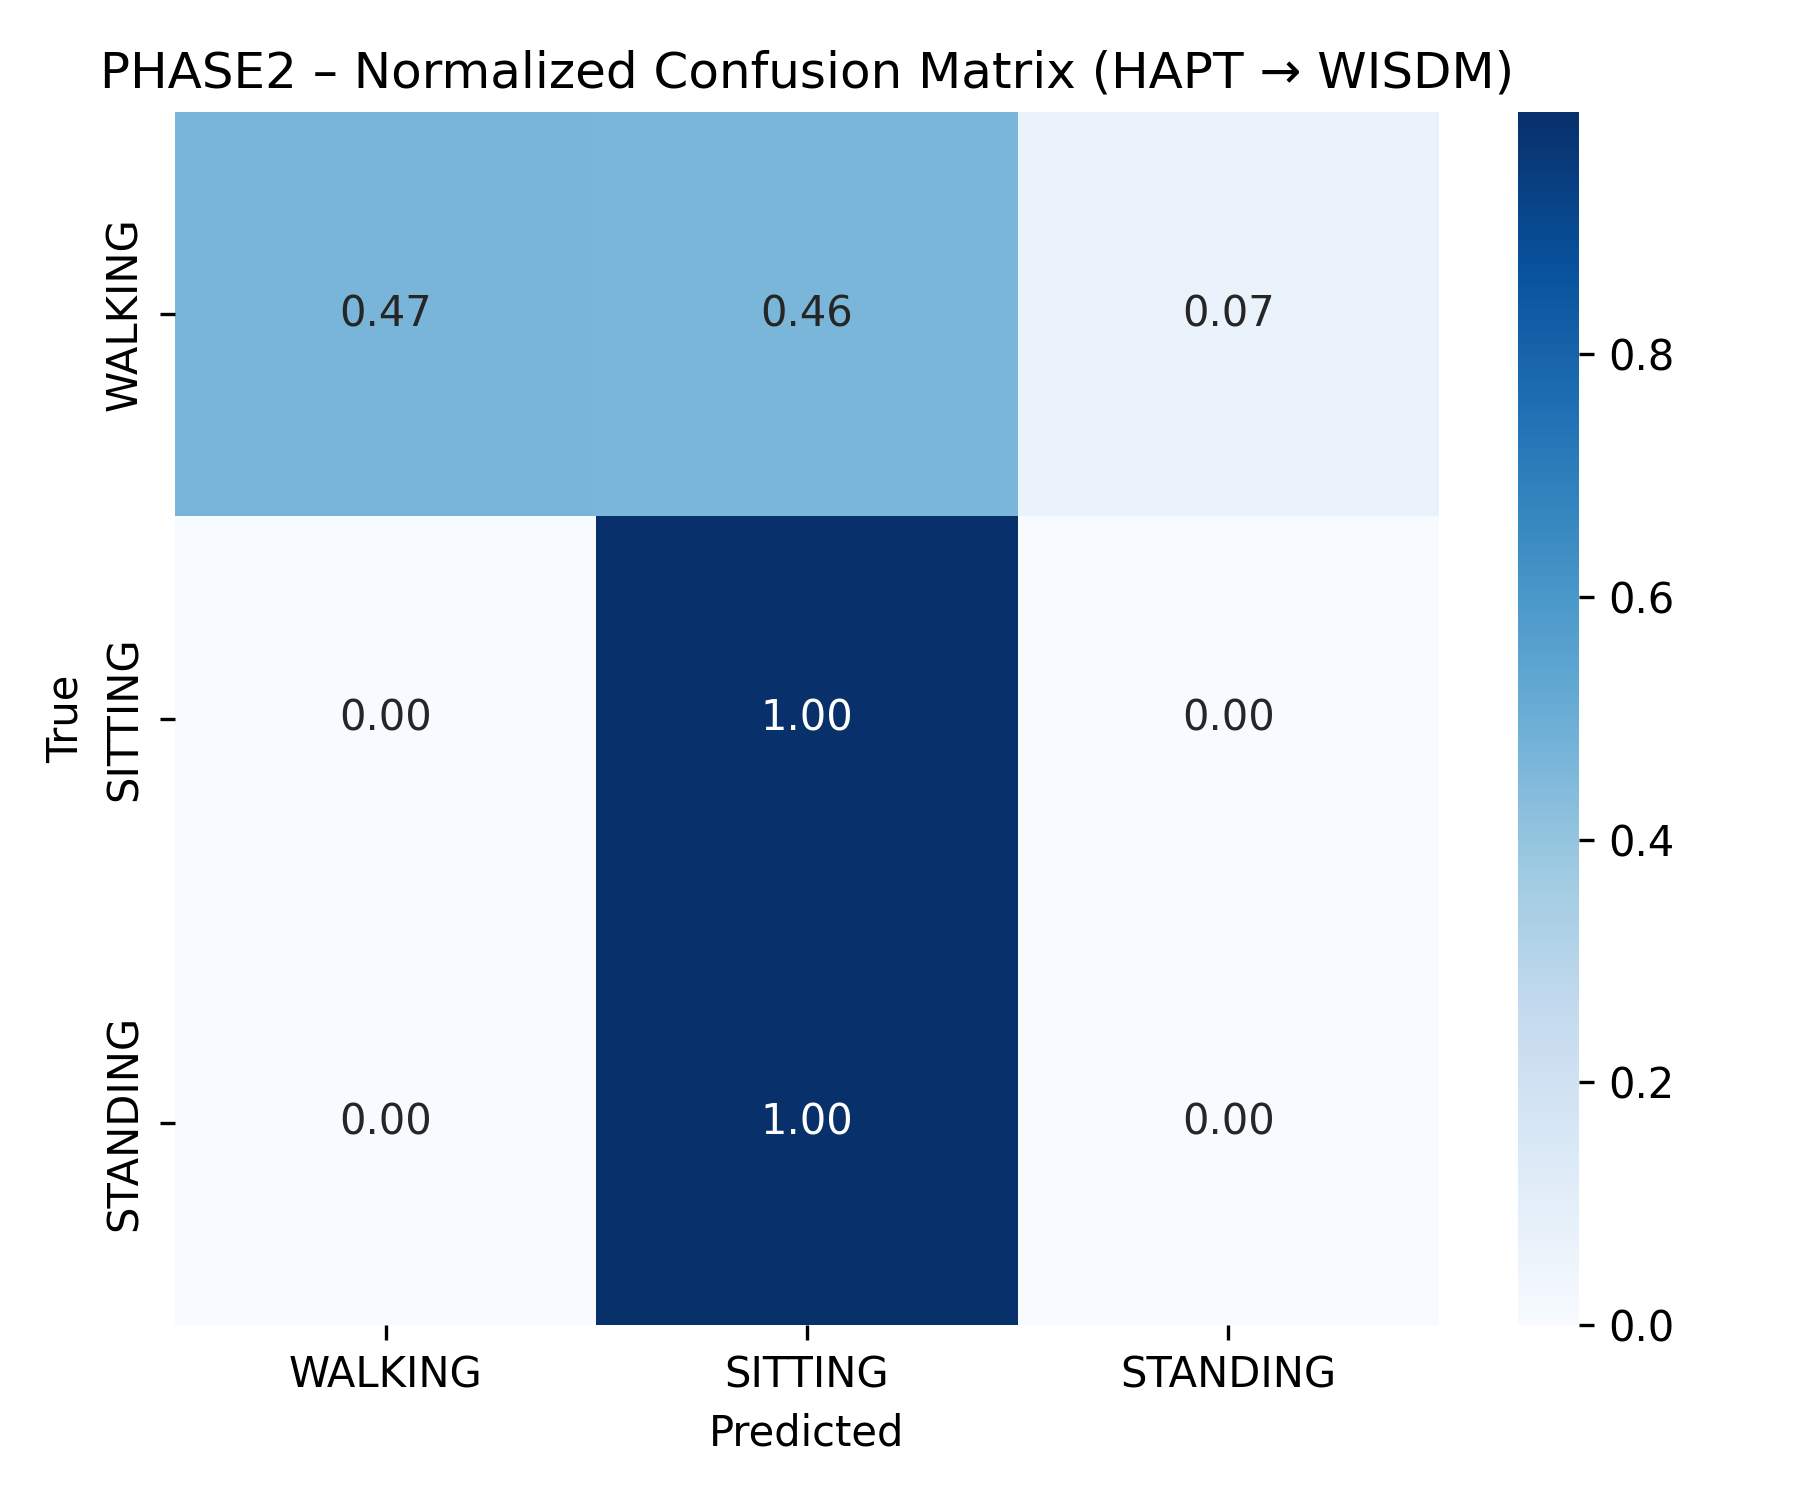
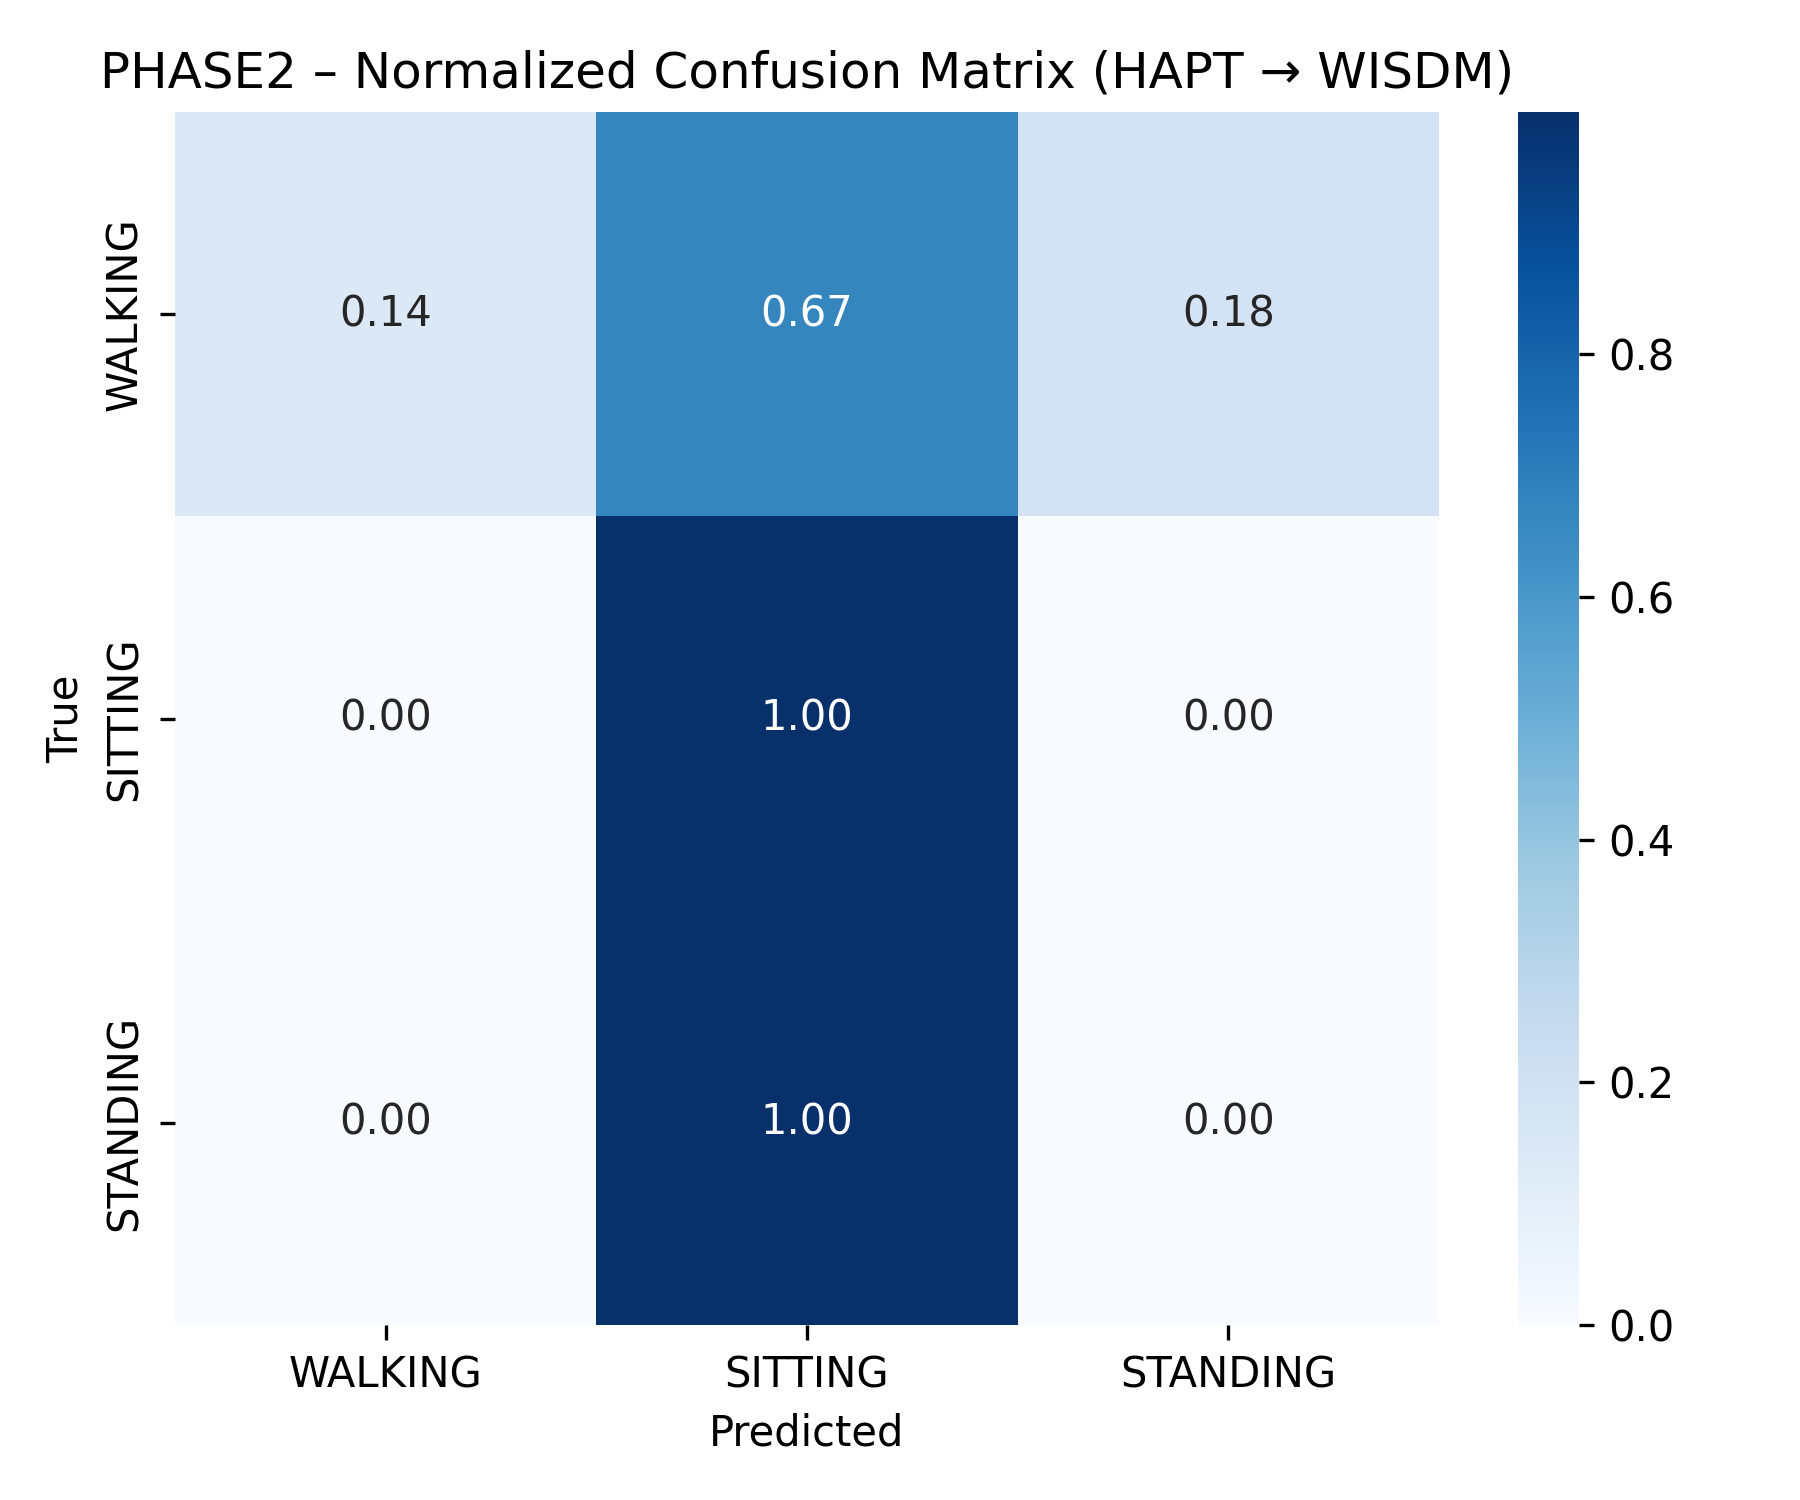
Rerun Phase 2 with corrected single-level stacking; fix path/tag mislabeling
cross_dataset_hapt_to_wisdm.py hardcoded non-_phase2-suffixed data paths
(inconsistent with every other pipeline script) and had PHASE_TAG left on
"phase1", so its 80-feature output was writing into results/phase1/ and
overwriting the true Phase 1 baseline in the working tree. Fixed the
paths/tag (no model logic touched) and reran under the corrected
single-level stacking architecture from 49c01fb.

results/phase2/ now holds the current fixed-stack numbers (HAPT train
0.9242, WISDM test 0.3737). Old buggy-stack Phase 2 numbers (HAPT 0.9180,
WISDM 0.4850) preserved at results/phase2_prefix_archive/ for comparison.
results/phase1/ (true 61-feature baseline) and Phase 3 (separate,
always-correct stacking implementation, confirmed unaffected by the bug)
are untouched.

Changed region(s): [[0.0933, 0.0613, 0.5911, 0.368], [0.6844, 0.184, 0.7156, 0.2147]]

diff --git a/src/cross_dataset_hapt_to_wisdm.py b/src/cross_dataset_hapt_to_wisdm.py
@@ -25,22 +25,23 @@ from xgboost import XGBClassifier
 REPO_ROOT = Path(__file__).resolve().parents[1]
 DATA_DIR = REPO_ROOT / "data"
 
-PHASE_TAG = "phase1"  # change to "phase1" when running baseline 80-feature version
+PHASE_TAG = "phase2"  # this script only ever produces 80-feature output (Phase 2 methodology);
+                       # Phase 1's 61-feature extractor code no longer exists in this repo.
 
 RESULTS_DIR = os.path.join("results", PHASE_TAG)
 os.makedirs(RESULTS_DIR, exist_ok=True)
 
 LABELS = ["WALKING", "SITTING", "STANDING"]
 
-# Load HAPT (source). Regenerate via src/feature_extraction_HAPT.py (phase1 variant)
-# into data/interim/hapt_3class_output/ before running this script.
-X_train = np.loadtxt(DATA_DIR / "interim" / "hapt_3class_output" / "X_hapt.txt")
-y_train = np.loadtxt(DATA_DIR / "interim" / "hapt_3class_output" / "y_hapt.txt").astype(int)
+# Load HAPT (source). Regenerate via src/feature_extraction_HAPT.py
+# into data/interim/hapt_3class_output_phase2/ before running this script.
+X_train = np.loadtxt(DATA_DIR / "interim" / "hapt_3class_output_phase2" / "X_hapt.txt")
+y_train = np.loadtxt(DATA_DIR / "interim" / "hapt_3class_output_phase2" / "y_hapt.txt").astype(int)
 
 # Load WISDM (target). Regenerate via src/analysis_feature_dataset.py
-# into data/interim/Filtered_datasets_and_KS_results/3class_wisdm/ before running this script.
-X_test = np.loadtxt(DATA_DIR / "interim" / "Filtered_datasets_and_KS_results" / "3class_wisdm" / "X_filtered.txt")
-y_test = np.loadtxt(DATA_DIR / "interim" / "Filtered_datasets_and_KS_results" / "3class_wisdm" / "y_filtered.txt").astype(int)
+# into data/interim/Filtered_datasets_and_KS_results/3class_wisdm_phase2/ before running this script.
+X_test = np.loadtxt(DATA_DIR / "interim" / "Filtered_datasets_and_KS_results" / "3class_wisdm_phase2" / "X_filtered.txt")
+y_test = np.loadtxt(DATA_DIR / "interim" / "Filtered_datasets_and_KS_results" / "3class_wisdm_phase2" / "y_filtered.txt").astype(int)
 
 # --- FIX WISDM LABEL SEMANTICS (CRITICAL) ---
 # WISDM mapping: 1=SITTING, 2=STANDING, 3=WALKING
